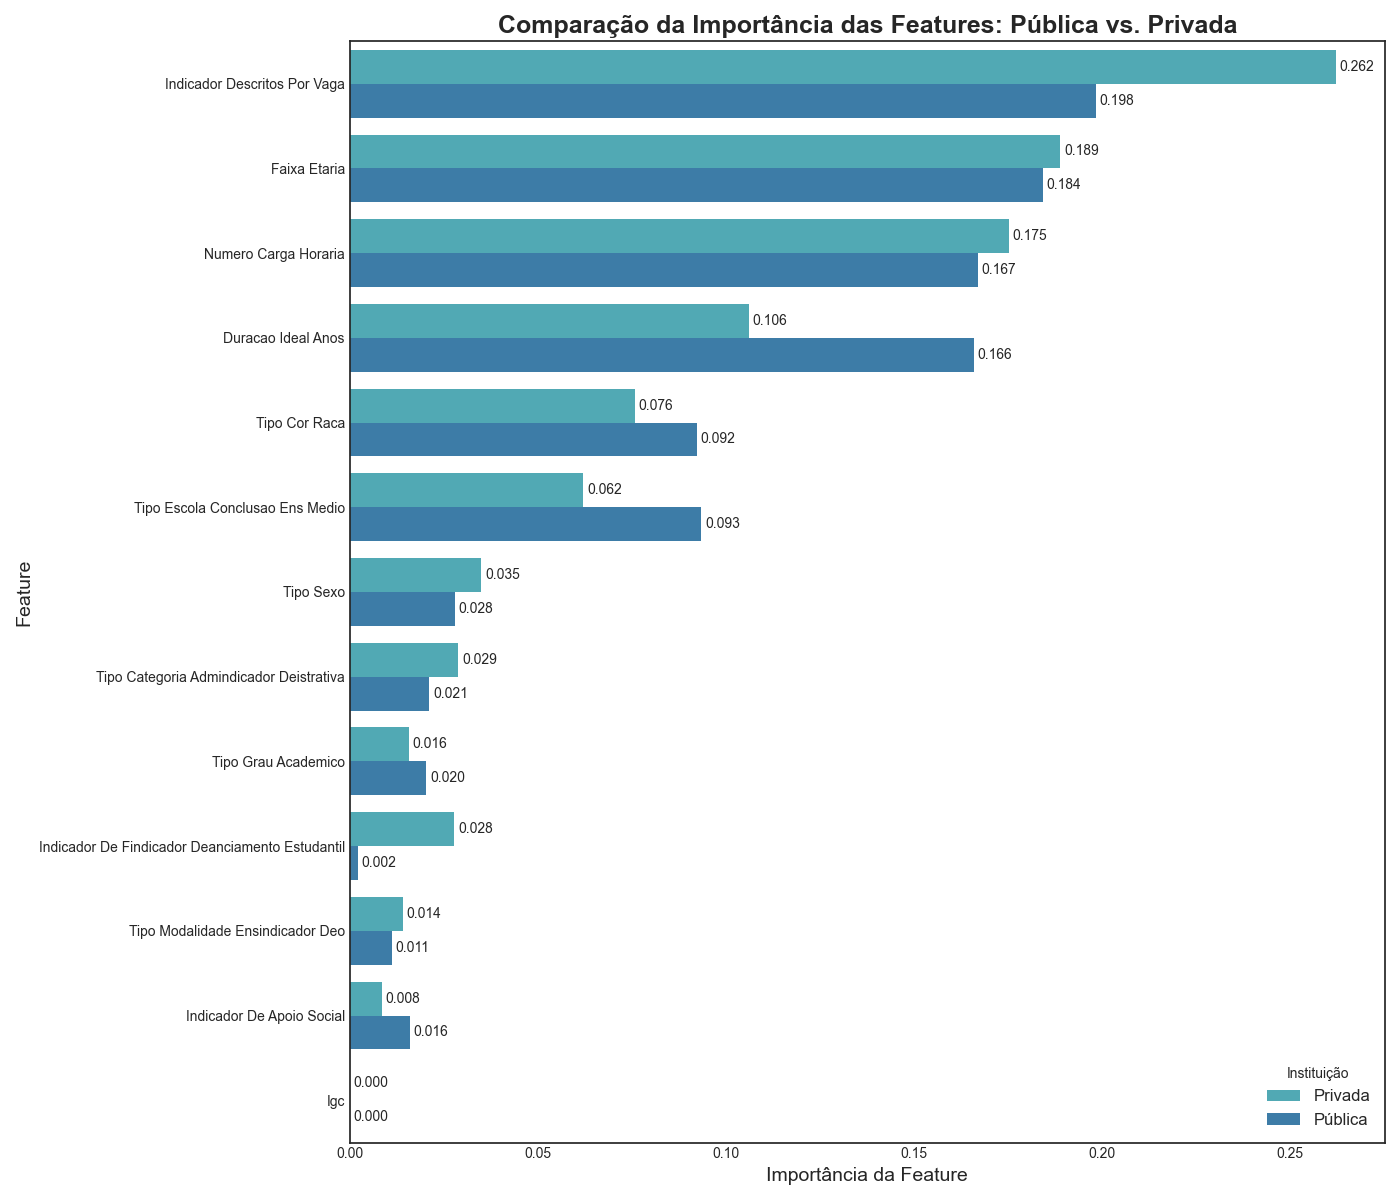
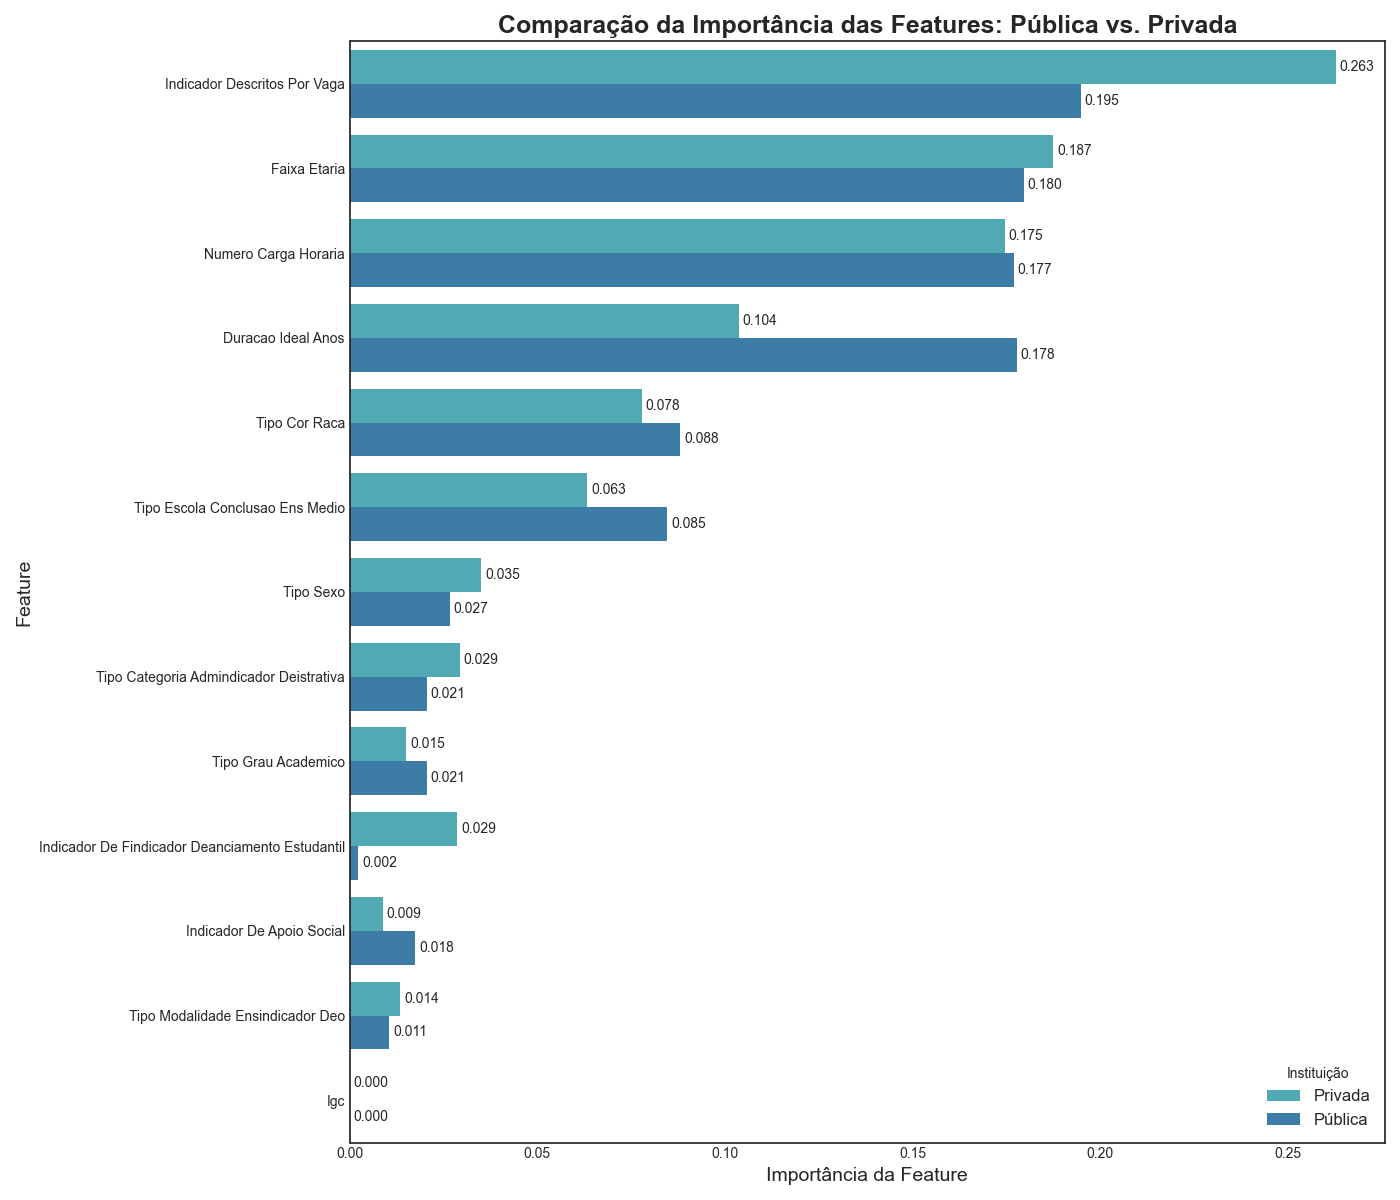
dados do cine integrados a base e parametrização da main

diff --git a/src/data_processing/data_integration.py b/src/data_processing/data_integration.py
@@ -4,7 +4,7 @@ import numpy as np
 import os
 import gc
 
-def load_and_integrate_data(data_path):
+def load_and_integrate_data(data_path, nivel_especifico_categoria:bool = True):
     """
     Carrega e integra os dados, corrigindo o formato decimal das colunas de
     duração do curso para garantir a criação correta do 'período ideal'.
@@ -20,13 +20,16 @@ def load_and_integrate_data(data_path):
     ]
     curso_cols = [
         'NU_ANO_CENSO', 'CO_IES', 'CO_CURSO', 'TP_MODALIDADE_ENSINO', 'NU_CARGA_HORARIA', 
-        'TP_GRAU_ACADEMICO', 'NU_INTEGRALIZACAO_INTEGRAL', 'NU_INTEGRALIZACAO_MATUTINO',
+        'TP_GRAU_ACADEMICO', 'NU_INTEGRALIZACAO_INTEGRAL', 'NU_INTEGRALIZACAO_MATUTINO', 
         'NU_INTEGRALIZACAO_VESPERTINO', 'NU_INTEGRALIZACAO_NOTURNO', 'NU_INTEGRALIZACAO_EAD',
-        'QT_INSCRITO_TOTAL','QT_VAGA_TOTAL'
+        'QT_INSCRITO_TOTAL','QT_VAGA_TOTAL','CO_CINE_ROTULO'
     ]
     ies_cols = ['co_ies', 'nu_ano_censo', 'tp_categoria_administrativa', 'no_regiao_ies']
     igc_cols = ['ano', 'cod_ies', 'igc', 'igc_fx']
     dtype_map = {'co_ies': 'float64', 'co_curso': 'float64', 'nu_ano_censo': 'float64'}
+
+    cine_cols = ["CO_CINE_AREA_GERAL", "NM_CINE_AREA_GERAL", "CO_CINE_AREA_ESPECIFICA", "NM_CINE_AREA_ESPECIFICA", "CO_CINE_ROTULO"]
+
 
     # 2. Carregar os dados
     print("--- Carregando arquivos CSV... ---")
@@ -37,8 +40,20 @@ def load_and_integrate_data(data_path):
     cursos_df = pd.read_csv(os.path.join(data_path, 'ces', 'SoU_censo_cursos', 'SoU_censo_curso.csv'), sep=';', encoding='latin1', usecols=curso_cols, low_memory=False)
     ies_df = pd.read_csv(os.path.join(data_path, 'ces', 'SoU_censo_IES', 'SoU_censo_IES.csv'), sep=';', encoding='latin1', usecols=ies_cols)
     igc_df = pd.read_csv(os.path.join(data_path, 'igc', 'igc_tratado.csv'), sep=';', encoding='latin1', usecols=igc_cols)
+    cine_df = pd.read_csv(os.path.join(data_path, 'cine', 'cine.csv'), sep=',', encoding='latin1', usecols=cine_cols)
+
     igc_df = igc_df.rename(columns={'ano': 'nu_ano_censo', 'cod_ies': 'co_ies'})
 
+    if nivel_especifico_categoria:
+        cine_df = cine_df.rename(columns={'NM_CINE_AREA_ESPECIFICA': 'nm_categoria', 'NM_CINE_AREA_GERAL': 'nm_categoria_dropar'})
+    else:
+        cine_df = cine_df.rename(columns={'NM_CINE_AREA_GERAL': 'nm_categoria', 'NM_CINE_AREA_ESPECIFICA': 'nm_categoria_dropar'})
+
+    cine_df = cine_df.drop(columns=['nm_categoria_dropar','CO_CINE_AREA_GERAL','CO_CINE_AREA_ESPECIFICA'])
+    
+    num_linhas = df.shape[0]
+    cursos_df = pd.merge(cursos_df, cine_df, on='CO_CINE_ROTULO', how='inner')
+    print(f"Quantidade de cursos antes do merge: {num_linhas}. Quantidade de cursos após o merge com CINE: {cursos_df.shape[0]}.")
     # 3. Criar 'tempo_permanencia' e 'duracao_ideal_anos' (corrigindo o formato decimal)
     alunos_dd['tempo_permanencia'] = alunos_dd['nu_ano_censo'] - alunos_dd['nu_ano_ingresso']
     
